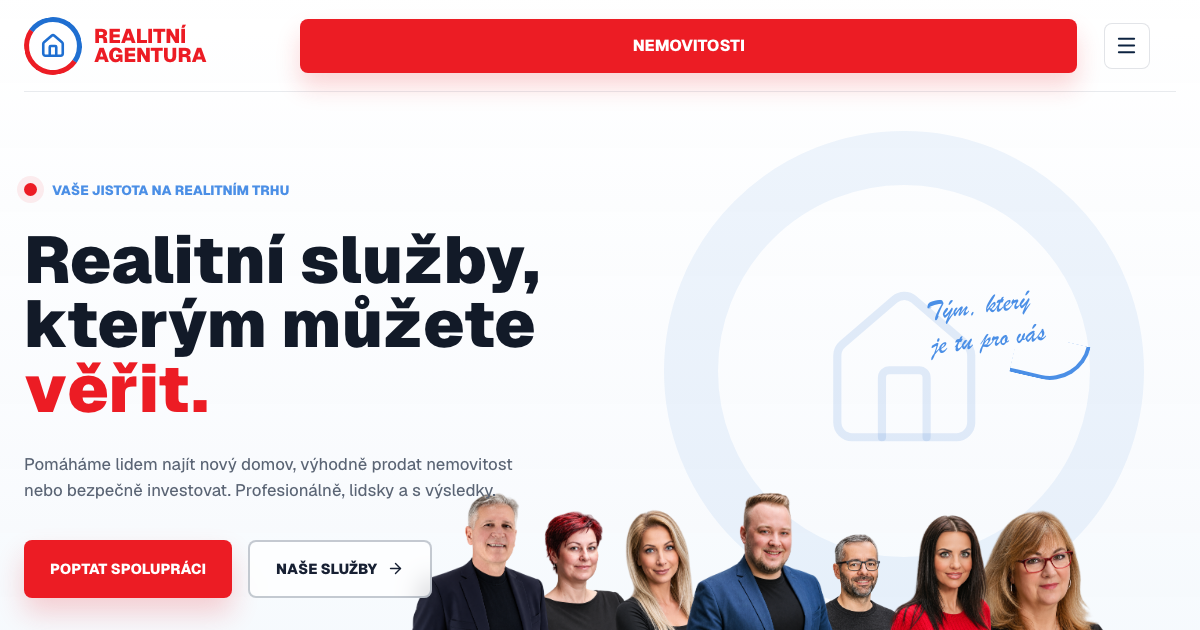
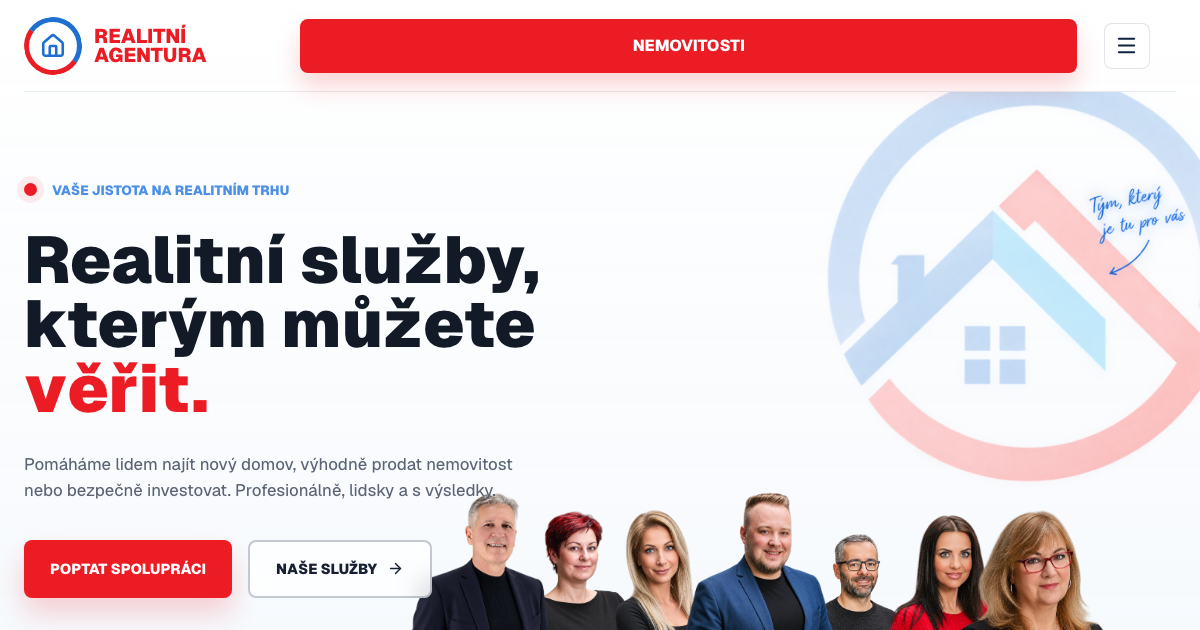
Use supplied hero background image

Changed region(s): [[0.6783, 0.1206, 1.0, 0.7841], [0.8017, 0.9048, 0.8325, 1.0]]

diff --git a/app/globals.css b/app/globals.css
@@ -288,21 +288,18 @@
 
 .hero__watermark {
   position: absolute;
-  right: max(4vw, 56px);
-  top: 4%;
-  display: grid;
-  place-items: center;
-  width: clamp(440px, 40vw, 760px);
-  height: clamp(440px, 40vw, 760px);
-  border: clamp(42px, 4.5vw, 86px) solid rgb(31 111 209 / 7%);
-  border-radius: 999px;
-  color: rgb(236 28 36 / 8%);
+  right: clamp(-42px, -2vw, -18px);
+  top: clamp(-48px, -2vw, -18px);
+  width: clamp(610px, 55vw, 1000px);
+  opacity: 0.95;
 }
 
-.hero__watermark svg {
-  width: 48%;
-  height: 48%;
-  color: rgb(31 111 209 / 12%);
+.hero__watermark img {
+  display: block;
+  width: 100%;
+  height: auto;
+  object-fit: contain;
+  user-select: none;
 }
 
 .hero__cityline {
@@ -411,30 +408,6 @@
   border-color: #1f6fd1;
   color: #0d2340;
   transform: translateY(-1px);
-}
-
-.team-note {
-  position: absolute;
-  top: clamp(130px, 18vh, 218px);
-  right: clamp(110px, 11vw, 205px);
-  z-index: 16;
-  color: #4b8fe6;
-  font-family: "Brush Script MT", "Segoe Script", cursive;
-  font-size: clamp(1.65rem, 2.35vw, 3.1rem);
-  line-height: 1.2;
-  transform: rotate(-7deg);
-}
-
-.team-note span {
-  position: absolute;
-  right: -38px;
-  bottom: -31px;
-  width: 74px;
-  height: 42px;
-  border-right: 4px solid #4b8fe6;
-  border-bottom: 4px solid #4b8fe6;
-  border-radius: 0 0 52px;
-  transform: rotate(20deg);
 }
 
 .realitni-team {
@@ -696,10 +669,6 @@
     max-width: 470px;
   }
 
-  .team-note {
-    right: 6%;
-  }
-
   .realitni-team {
     bottom: 72px;
   }
@@ -749,11 +718,10 @@
   }
 
   .hero__watermark {
-    top: 170px;
-    right: -160px;
-    width: 430px;
-    height: 430px;
-    border-width: 42px;
+    top: 218px;
+    right: -265px;
+    width: 640px;
+    opacity: 0.36;
   }
 
   .hero__cityline {
@@ -795,10 +763,6 @@
     min-height: 50px;
     padding-inline: 18px;
     font-size: 0.8rem;
-  }
-
-  .team-note {
-    display: none;
   }
 
   .realitni-team {

diff --git a/app/page.tsx b/app/page.tsx
@@ -243,7 +243,7 @@ export default function HomePage() {
       <section className="hero" aria-labelledby="hero-title">
         <div className="hero__background" aria-hidden="true">
           <div className="hero__watermark">
-            <Home size={310} strokeWidth={1.1} />
+            <img src="/images/hero/team-mark.png" alt="" />
           </div>
           <div className="hero__cityline" />
         </div>
@@ -270,13 +270,6 @@ export default function HomePage() {
                 <ArrowRight size={17} aria-hidden="true" />
               </a>
             </div>
-          </div>
-
-          <div className="team-note" aria-hidden="true">
-            Tým, který
-            <br />
-            je tu pro vás
-            <span />
           </div>
 
           <div
